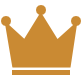
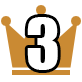
排行榜新资源合入

Changed region(s): [[0.2927, 0.1707, 0.7561, 0.9024]]

diff --git a/WxPostProcess/openDataContext/index.js b/WxPostProcess/openDataContext/index.js
@@ -109,7 +109,7 @@ function init() {
   startX = offsetX_rankToBorder + RankWidth * 1 / 20;
   startY = offsetY_rankToBorder + preOffsetY + 20;
   avatarSize = barRenderHeight * 19 / 20;
-  crownSize = avatarSize * 3 / 4 - 3;
+  crownSize = avatarSize * 3 / 5;
   intervalX = (20 * stageWidth / 640);
   
   //设置字体
@@ -175,27 +175,30 @@ function drawByData(data, i)
   x += intervalX;
 
   //绘制王冠
-  var crownX = x;// + (indexWidth) - crownSize / 2;
+  var crownX = x + (indexWidth) / 2 - crownSize / 2;
   if(data.key == 0)
   {
     context.drawImage(assets.gold, crownX, startY + i * preOffsetY + (barRenderHeight - crownSize) / 2, crownSize, crownSize);
   }
   else if(data.key == 1)
   {
-    context.drawImage(assets.silver, x, startY + i * preOffsetY + (barRenderHeight - crownSize) / 2, crownSize, crownSize);
+    context.drawImage(assets.silver, crownX, startY + i * preOffsetY + (barRenderHeight - crownSize) / 2, crownSize, crownSize);
   }
   else if(data.key == 2)
   {
-    context.drawImage(assets.brozen, x, startY + i * preOffsetY + (barRenderHeight - crownSize) / 2, crownSize, crownSize);
+    context.drawImage(assets.brozen, crownX, startY + i * preOffsetY + (barRenderHeight - crownSize) / 2, crownSize, crownSize);
   }
 
   //绘制序号
-  context.textAlign = "center";
-  context.lineWidth = 6;
-  context.strokeText((data.key+1) + "", x + indexWidth / 2, startY + i * preOffsetY + textOffsetY, indexWidth);
-  context.lineWidth = 4;
-  context.fillText((data.key+1) + "", x + indexWidth / 2, startY + i * preOffsetY + textOffsetY, indexWidth);
-  context.textAlign = "left";
+  if(data.key > 2)
+  {
+    context.textAlign = "center";
+    context.lineWidth = 6;
+    context.strokeText((data.key+1) + "", x + indexWidth / 2, startY + i * preOffsetY + textOffsetY, indexWidth);
+    context.lineWidth = 4;
+    context.fillText((data.key+1) + "", x + indexWidth / 2, startY + i * preOffsetY + textOffsetY, indexWidth);
+    context.textAlign = "left";
+  }
   x += indexWidth + intervalX;
   //绘制头像
   if(data.avatar != null)
@@ -538,11 +541,6 @@ function onGetFriendCloudStorage(storageKey)
                     }
                 }
                 totalGroup.push({ key: i, name: userGameData.nickname, url: userGameData.avatarUrl, scroes: storageValue, avatar:null });
-                totalGroup.push({ key: i+1, name: userGameData.nickname, url: userGameData.avatarUrl, scroes: storageValue, avatar:null });
-                totalGroup.push({ key: i+2, name: userGameData.nickname, url: userGameData.avatarUrl, scroes: storageValue, avatar:null });
-                totalGroup.push({ key: i+3, name: userGameData.nickname, url: userGameData.avatarUrl, scroes: storageValue, avatar:null });
-                totalGroup.push({ key: i+4, name: userGameData.nickname, url: userGameData.avatarUrl, scroes: storageValue, avatar:null });
-                totalGroup.push({ key: i+5, name: userGameData.nickname, url: userGameData.avatarUrl, scroes: storageValue, avatar:null });
             }
             totalGroup.sort(sortScore);
             for(var i = 0; i < totalGroup.length; ++i)

diff --git a/BallProject/src/GameView/LobbyView.ts b/BallProject/src/GameView/LobbyView.ts
@@ -13,7 +13,7 @@ class LobbyView extends GameView
     private ballAnimAcc: number;
     private shop: ShopView;
     //===排行榜===
-    private rankButton:egret.TextField;
+    private rankButton:egret.Bitmap;
 
     private rankMenu:egret.Bitmap;
     private rankBg:FullScreenCover;
@@ -164,15 +164,13 @@ class LobbyView extends GameView
         var adaptFactor = GameMain.GetInstance().GetStageWidth() / Screen_StanderScreenWidth;
 
         //入口
-        this.rankButton = new egret.TextField();
-        this.rankButton.text = "排行榜";
-        this.rankButton.width = 200;
-        this.rankButton.height = 100;
-        this.rankButton.anchorOffsetX = 100;
-        this.rankButton.anchorOffsetY = 50;
-        this.rankButton.size = 50;
-        this.rankButton.x = GameMain.GetInstance().GetStageWidth() / 2;
-        this.rankButton.y = 900;
+        this.rankButton = this.mResModule.CreateBitmapByName("pd_res_json.rankEntry");
+        this.rankButton.width *= 0.4 * adaptFactor;
+        this.rankButton.height *= 0.4 * adaptFactor;
+        this.rankButton.anchorOffsetX = this.rankButton.width / 2;
+        this.rankButton.anchorOffsetY = this.rankButton.height / 2;
+        this.rankButton.x = 430 * adaptFactor;
+        this.rankButton.y = 830;
         this.rankButton.touchEnabled = true;
         this.rankButton.addEventListener(egret.TouchEvent.TOUCH_TAP, this.OnClickRank, this);
         this.addChild(this.rankButton);
